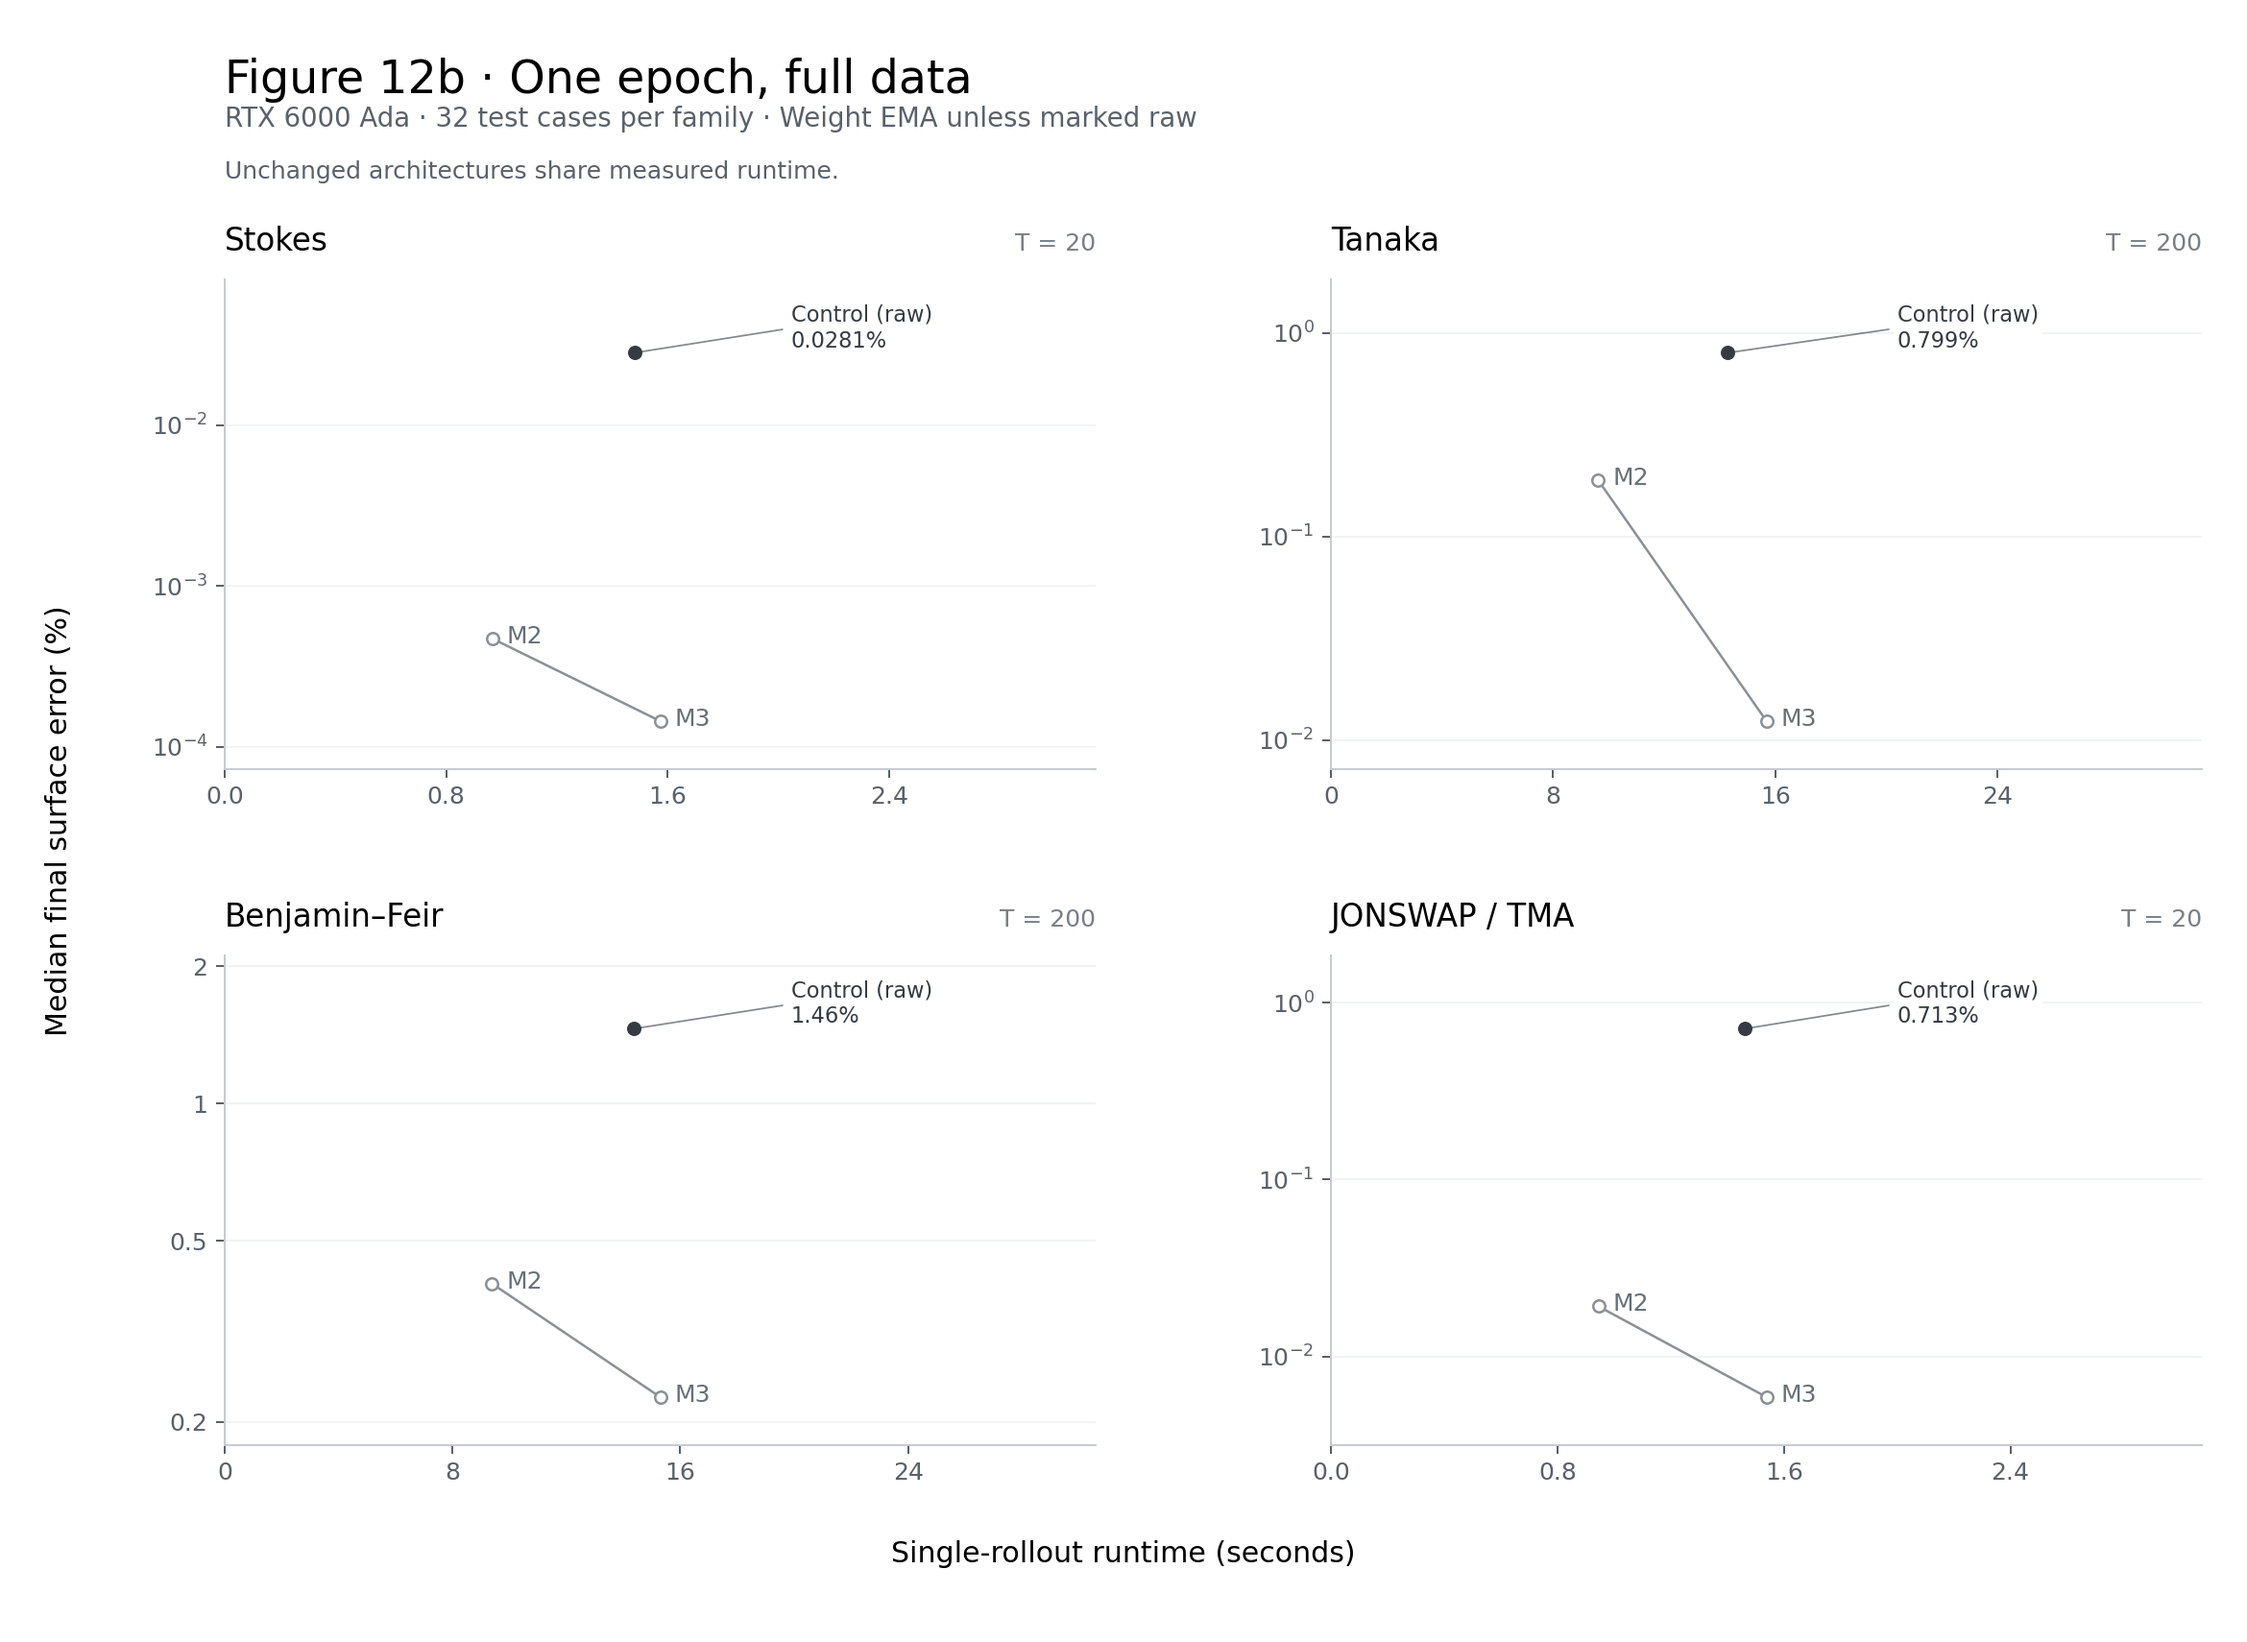
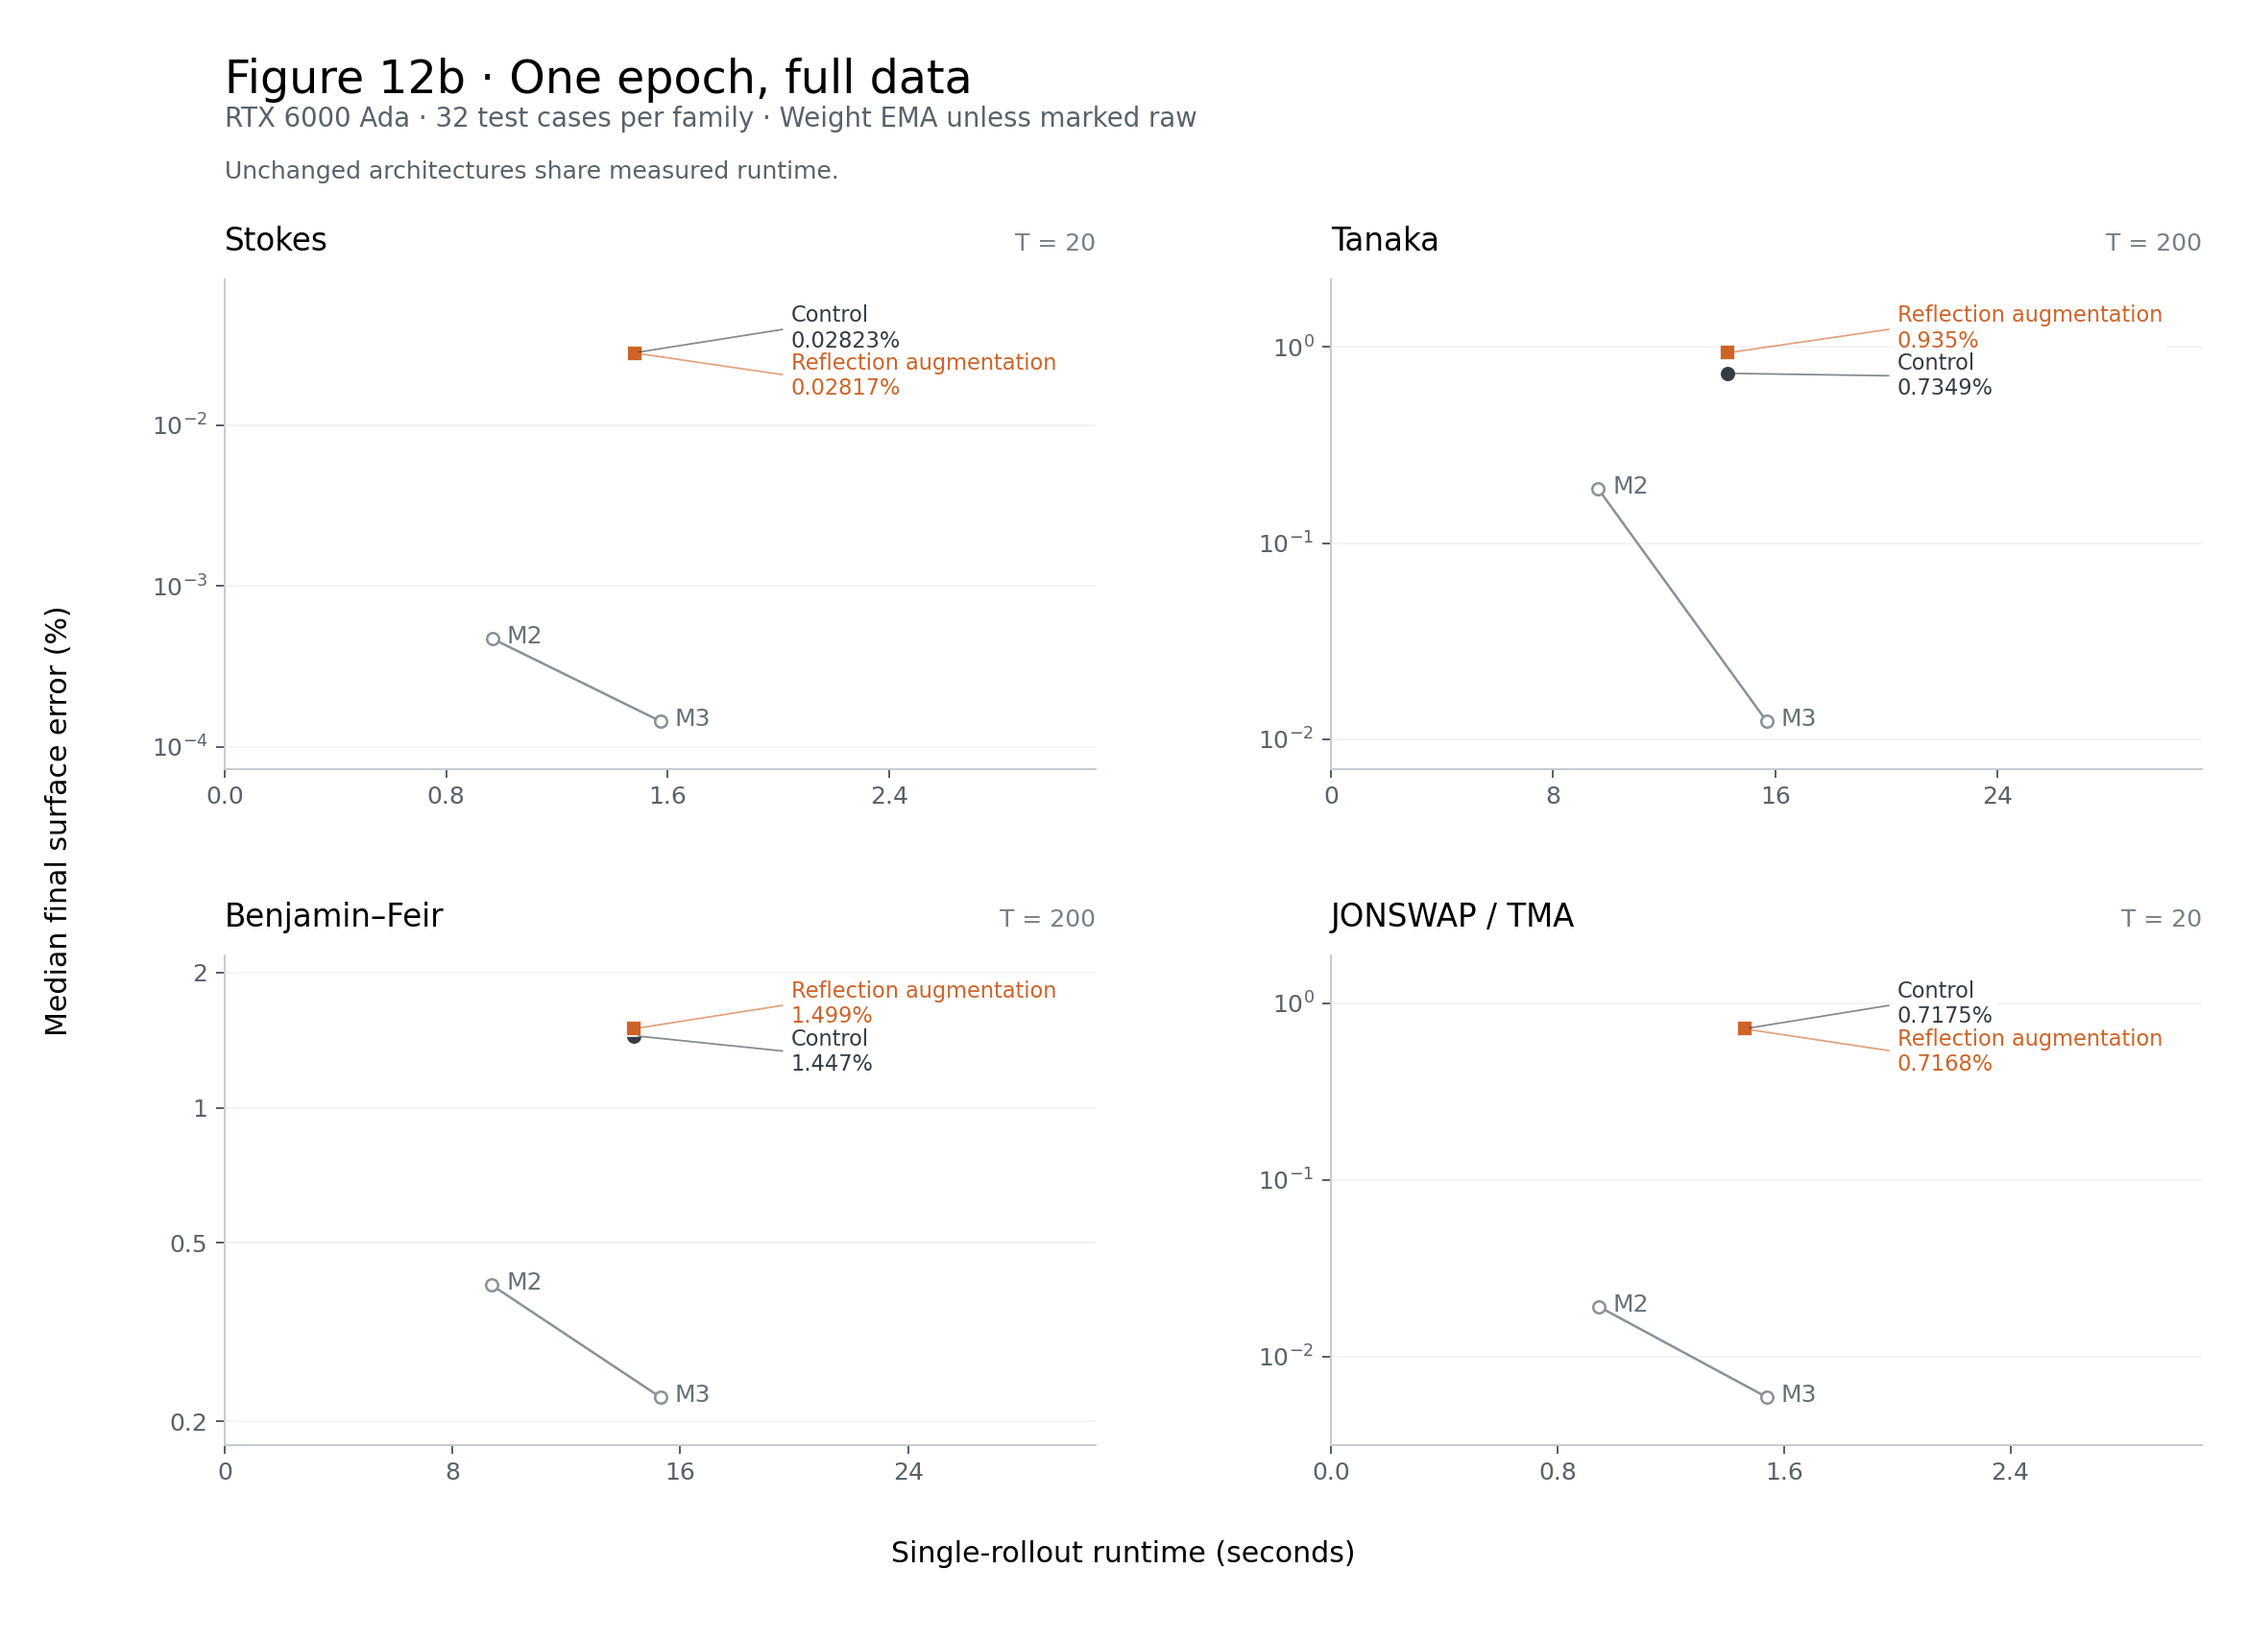
Refresh Figure 12b with reflection weight-EMA results

diff --git a/paper-plots/plot_neural_advantage.py b/paper-plots/plot_neural_advantage.py
@@ -291,8 +291,8 @@ if __name__ == "__main__":
                 ax.scatter(seconds, error, s=45, marker=marker, color=color, edgecolors="white", linewidths=0.7, zorder=4)
                 print(f"{family}, {label}: median error {error:.8g}%; architecture runtime {seconds:.6f}s; "
                       f"finite {result['n_model_finite_truth_valid']}/{result['n_truth_valid']}")
-            for (error, seconds, label, color), label_y in zip(sorted(points, reverse=True), np.linspace(0.90, 0.12, len(points)), strict=True):
-                ax.annotate(f"{label}\n{error:.3g}%", (seconds, error), xytext=(0.65, label_y), textcoords="axes fraction",
+            for (error, seconds, label, color), label_y in zip(sorted(points, reverse=True), 0.90 - 0.0975 * np.arange(len(points)), strict=True):
+                ax.annotate(f"{label}\n{error:.4g}%", (seconds, error), xytext=(0.65, label_y), textcoords="axes fraction",
                             ha="left", va="center", color=color, fontsize=9,
                             arrowprops={"arrowstyle": "-", "color": color, "lw": 0.7, "alpha": 0.6, "relpos": (0, 0.5)},
                             bbox={"facecolor": "white", "edgecolor": "none", "pad": 1.5}, zorder=5)

diff --git a/experiments/experiments-2026-10-09.md b/experiments/experiments-2026-10-09.md
@@ -10,3 +10,4 @@
 | 2026-10-09 | 15:35 | Scratch learning rate1e-5 | The shortened full-data schedule may prefer a lower peak rate; test a modest change from the production scratch rate rather than the old fine-tuning-scale rate. | Queue c27_phase1_lr_low_full_20261009; control with LR1e-5, identical500-update warmup and one-epoch cosine. | Fresh seed0 model and optimizer, no trained-checkpoint initialization. All other architecture, data, losses and EMAs unchanged. | Queued15:35; one full epoch then raw/EMA128rollouts on GPU0. | QUEUED; no result yet. |
 | 2026-10-09 | 15:35 | Scratch learning rate4e-5 | A larger peak rate may learn more of the correction within the single full-data epoch. | Queue c27_phase1_lr_high_full_20261009; control with LR4e-5 and the same one-epoch schedule. | Fresh seed0 model/optimizer, bothEMAs and same rollout evaluation; no budget extension. Shared queue stops on training/evaluation failure rather than silently skipping it. | Queued15:35 last; one full epoch then raw/EMA128rollouts on GPU0. | QUEUED; select using rollout accuracy and failures after results exist. |
 | 2026-10-09 | 15:55 | Figure12b rebuilt for full-data one-epoch screens | User requests the accuracy/runtime figure for the new iteration budget; mixing forty-epoch subset or converged accuracies would obscure the comparison. | Replaced plotting option with --one-epoch and generated paper-plots/figures/12b-one-epoch-full-data.png/pdf. New control completed raw128rollouts: median terminal eta errors% S .0281004,T .799308,BF1.45932,J .713437, all128finite. Validation relativeL2 .000602872. Figure currently labels Control(raw); complete weight-EMA results replace it automatically. Other eight runs are pending. CPU watcher refreshes when the existing queue writes new family summaries, without changing the launcher or training. | Four-family completion required per checkpoint; EMA preferred over raw only when all four are ready. Source accuracies exclusively current Oct9 one-epoch queue. Unchanged graphs reuse measured warm batch-one RMS/context timings1.47943/14.29118/14.36040/1.46072s; polynomial shortcut/even-feature models await their own timings. M2/M3 use existing32-case median errors and Ada single-rollout times. CPU fixture tests verify selection, omission, timing medians and percentage units. Ruff/Pyright/diff checks pass; actualPNG inspected and nine-label synthetic layout checked only in/tmp. | Plot work15:47–15:55 while existing rollouts ran; no new GPU jobs, inference timing, training or cloud use. Control training started15:33; raw evaluation complete15:55, weight-EMA evaluation follows. | UPDATED; old subset40 artifacts remain separate. Figure auto-refreshes from saved results; no unfinished accuracy is invented and no changed architecture inherits control timing. |
+| 2026-10-09 | 16:43 | Reflection completion and Figure12b refresh | Evaluate whether reflection augmentation reduces rollout error at the same one-epoch budget, comparing averaged weights with averaged weights. | Control/reflection EMA median eta errors% [S,T,BF,J]: [.02823472,.73488821,1.4472553,.71746317] / [.02817285,.93497636,1.4992303,.71675205]. Reflection leaves Stokes/JON essentially unchanged and worsens Tanaka27.2%, BF3.6%. Re-rendered current one-epoch PNG/PDF and tightened callout spacing for two completed runs; four-significant-digit labels distinguish close results. | Both EMA checkpoints128/128finite, zero terminal errors above25%. Earlier raw-to-raw result is separate: reflection [.02630375,.84110483,1.5168504,.71200799]. Plot contains both EMA results, not a raw/EMA mixture. Same shared architecture timings retained. Ruff passes; refreshedPNG visually inspected. Old subset40 filename remains a separate historical artifact, not the currentFigure12b. | Control complete16:04; reflection complete by16:35. Requested figure refresh16:42–16:43, CPU only. Polynomial shortcut is training next on GPU0; no job changes. | COMPLETE; reflection is not an across-family improvement and is not promoted. Current figure is 12b-one-epoch-full-data.png/pdf, with saved-result refresh still active. |

diff --git a/EXPERIMENTS.md b/EXPERIMENTS.md
@@ -33,11 +33,11 @@ could not be recovered at all are in
 
 ## Dated logs
 
-91 files, 1286 rows.
+91 files, 1287 rows.
 
 | Date | Rows | File | Size |
 | --- | --- | --- | --- |
-| 2026-10-09 | 10 | [`experiments/experiments-2026-10-09.md`](experiments/experiments-2026-10-09.md) | 9 KB |
+| 2026-10-09 | 11 | [`experiments/experiments-2026-10-09.md`](experiments/experiments-2026-10-09.md) | 10 KB |
 | 2026-10-08 | 15 | [`experiments/experiments-2026-10-08.md`](experiments/experiments-2026-10-08.md) | 26 KB |
 | 2026-10-07 | 9 | [`experiments/experiments-2026-10-07.md`](experiments/experiments-2026-10-07.md) | 15 KB |
 | 2026-10-06 | 4 | [`experiments/experiments-2026-10-06.md`](experiments/experiments-2026-10-06.md) | 7 KB |
